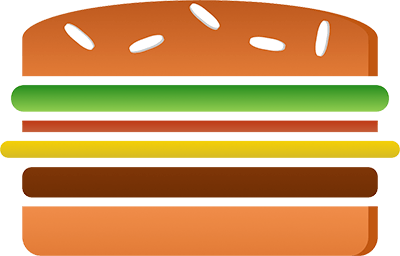
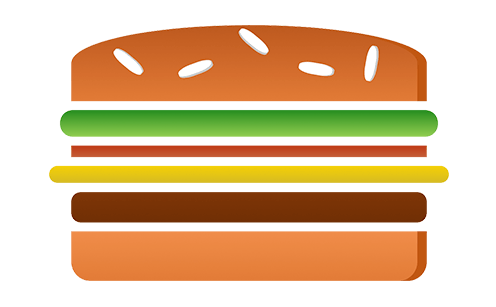
edited burgerbuilder profile image

diff --git a/index.html b/index.html
@@ -223,7 +223,7 @@
 				<p>More Info</p>
 			  </div>
 			</div>
-			<img class="img-fluid" src="img/modal3/profile - copy.png">
+			<img class="img-fluid" src="img/modal3/profile.png">
 		  </a>
 		  <div class="project-caption">
 			<h4>BurgerBuilder</h4>
